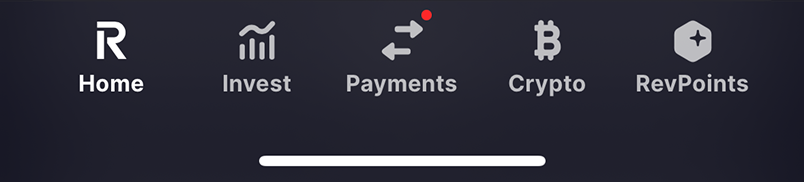
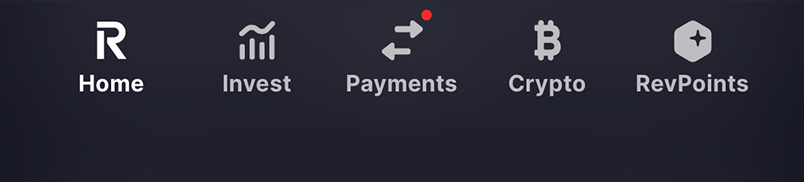
Update navigation

Changed region(s): [[0.3109, 0.8516, 0.6841, 0.9341]]

diff --git a/src/pages/AnalyticsPage/AnalyticsPage.jsx b/src/pages/AnalyticsPage/AnalyticsPage.jsx
@@ -76,9 +76,6 @@ export default function AnalyticsPage() {
           </>
         )}
       </div>
-      <div className="container__top-categories-nav">
-        <img src={IphoneBar} alt="Iphone Navigation Bar" />
-      </div>
     </div>
   );
 }
